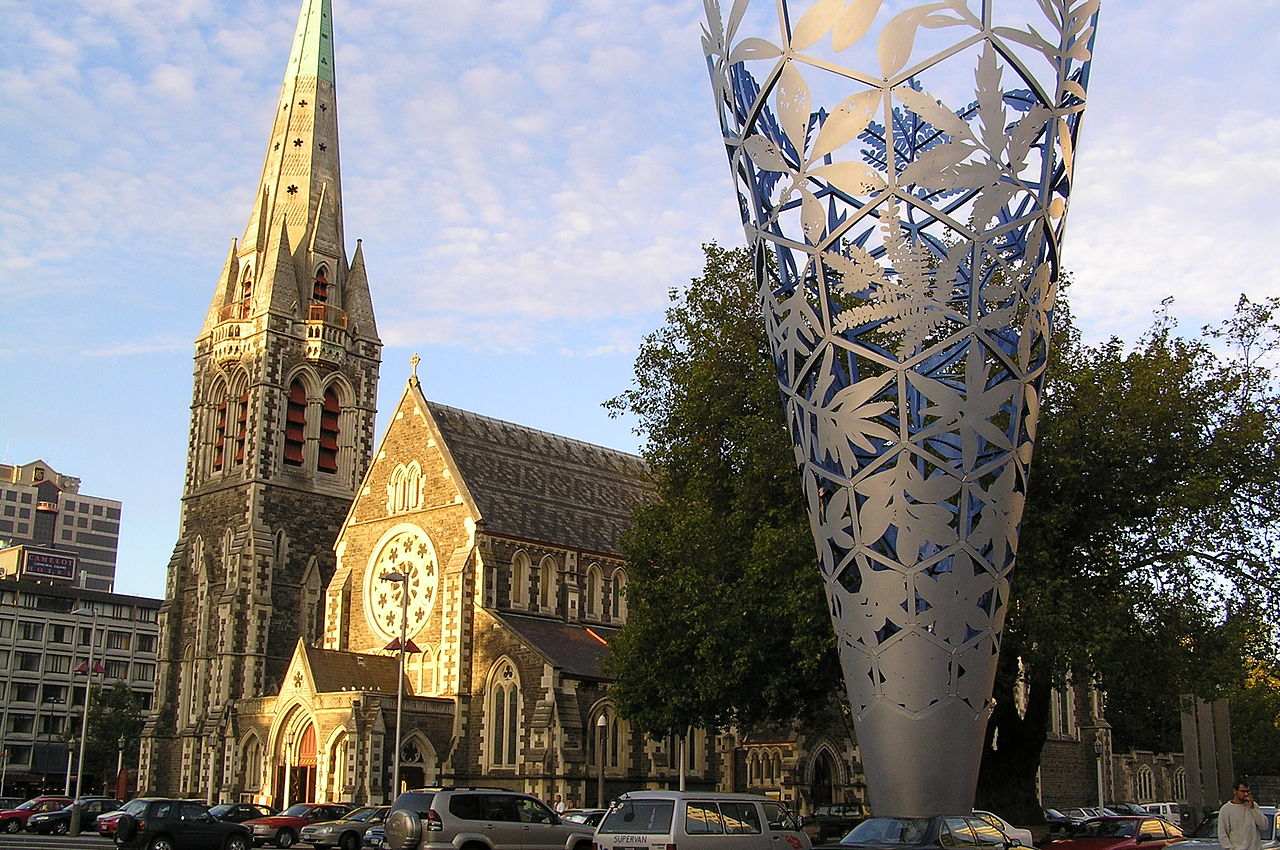
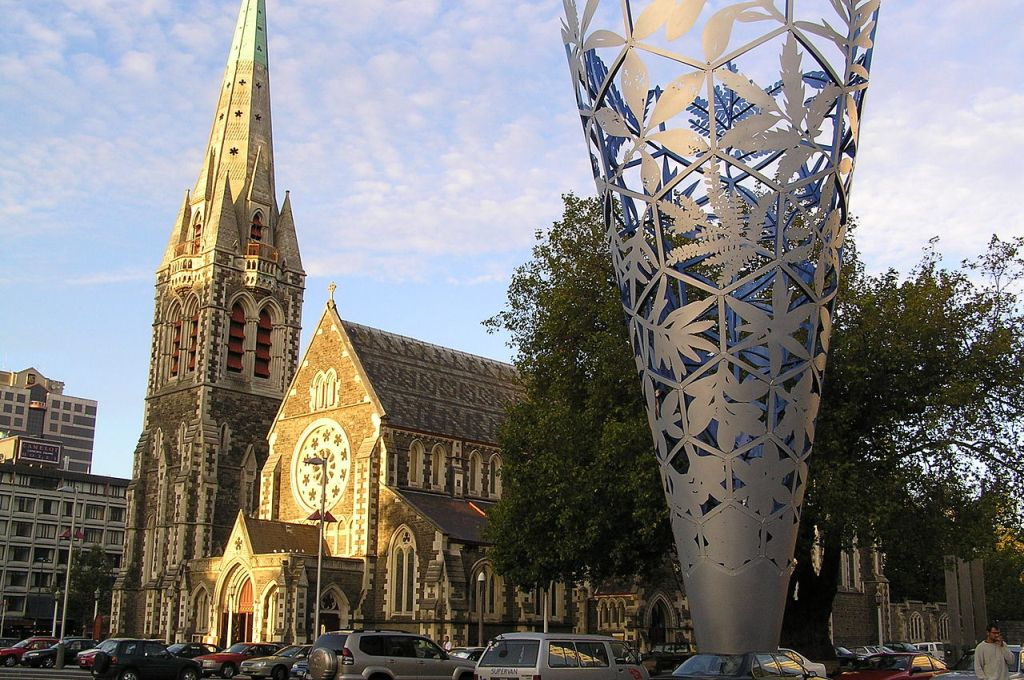
fotos auf richtige größe gebracht

diff --git a/styles.css b/styles.css
@@ -14,7 +14,7 @@ body {
 #header {
     text-align: center;
     background-color: darkcyan; 
-    background-image: url("images/satelit.jpg");
+    background-image: url("images/header.jpg");
 }
 #header h2 {
     font-size: 4em;
